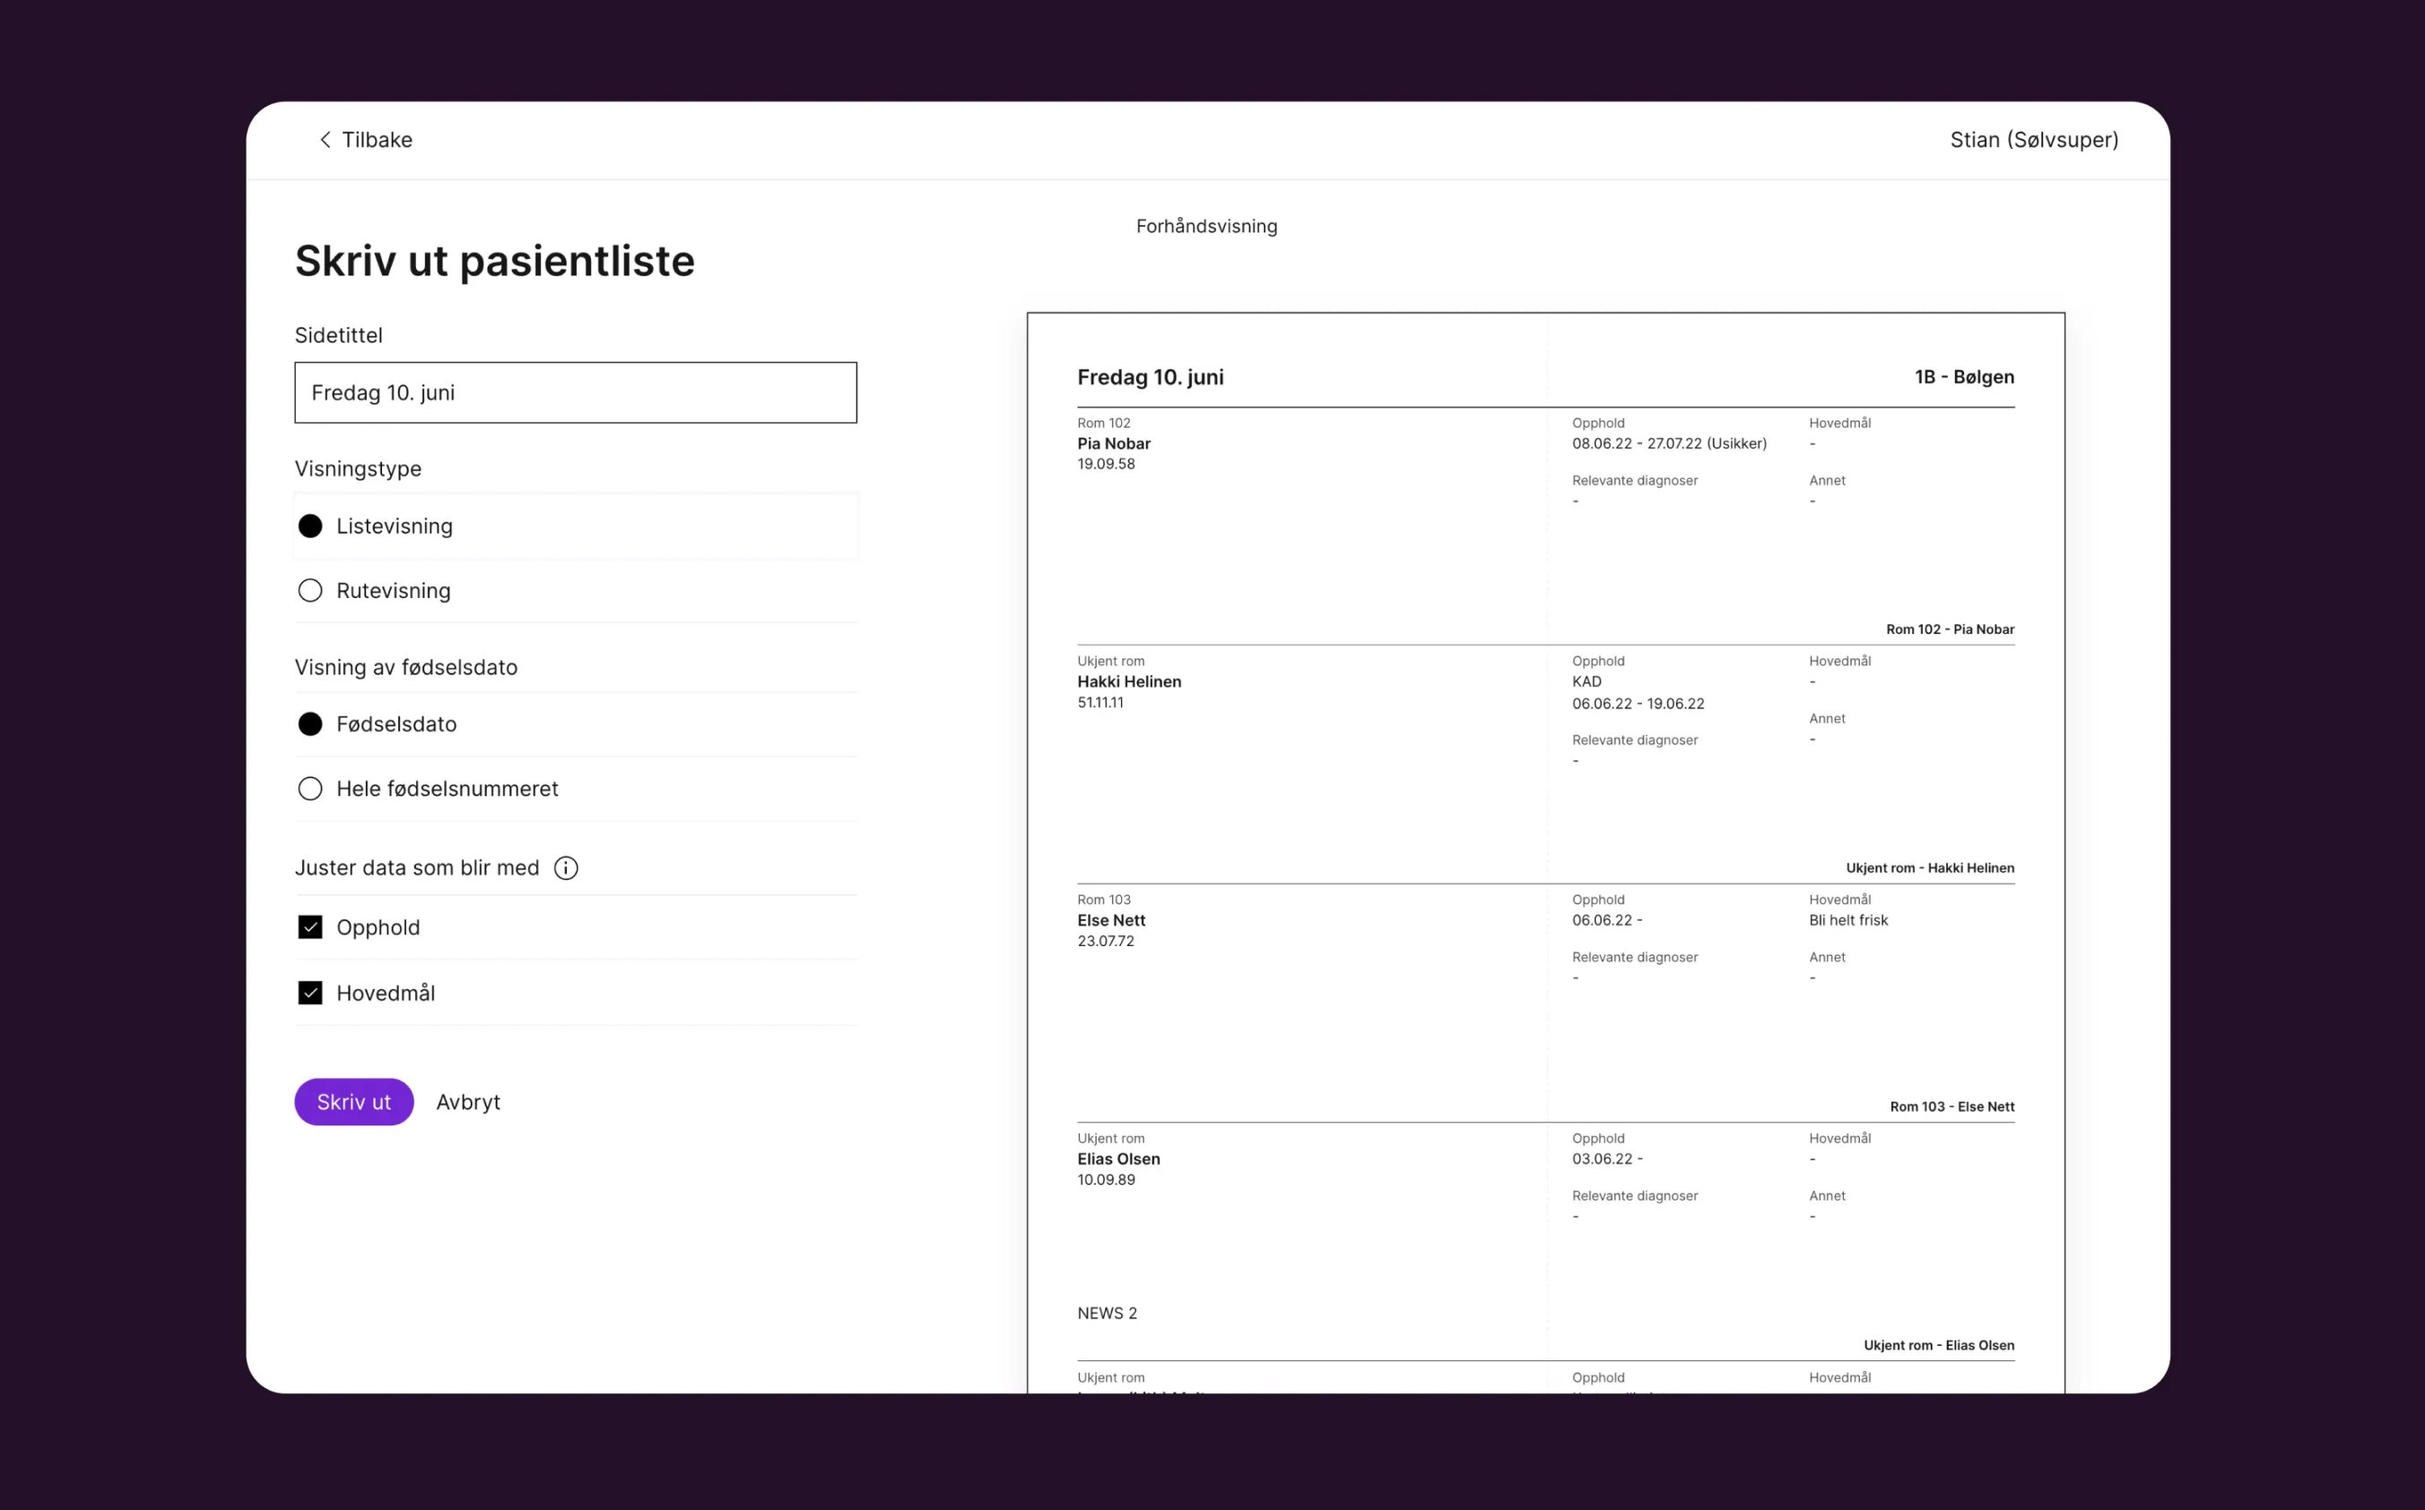
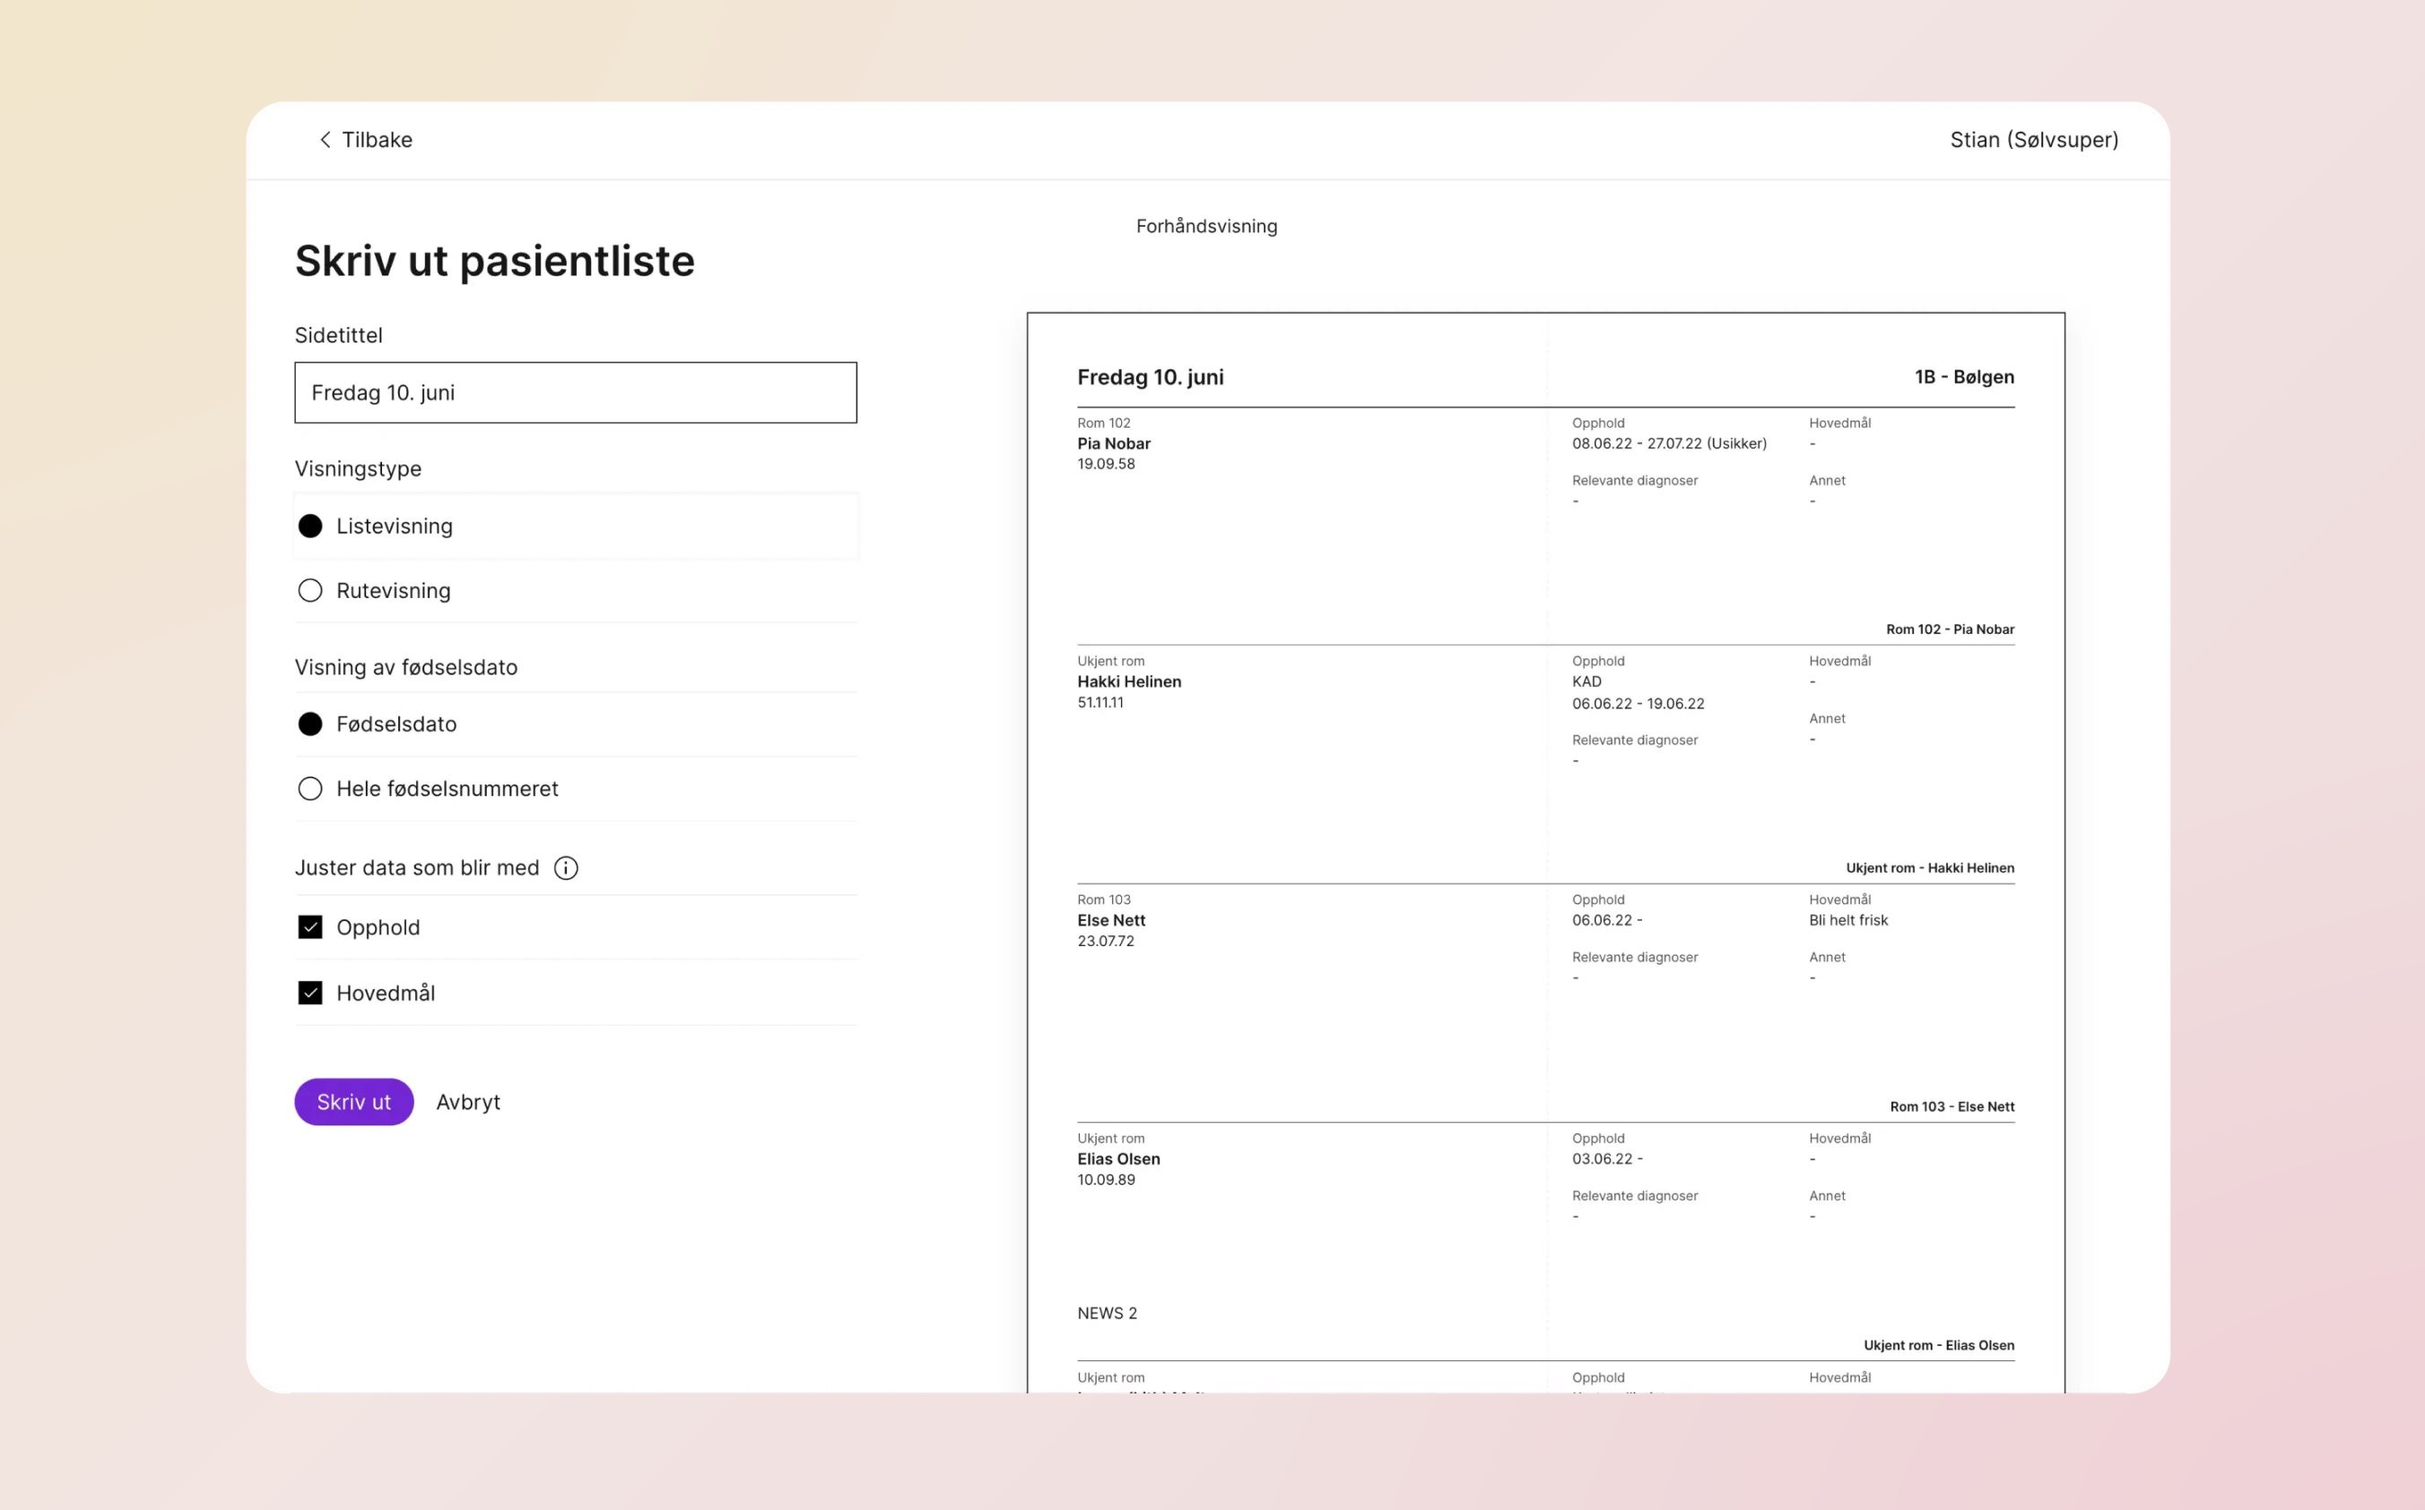
Gradient behind Aidn screens, grey behind process images (#19)
* Rewrite the Aidn case with workshop, scenario and assessment images

New text from Marthe, and five new images: workshop agenda, two needs
sheets, the patient scenario, location sketches and the function
assessment table. Adds a .prose block for body text between image
sections and a .half layout for a single portrait photo.

Claude-Session: https://claude.ai/code/session_01FprJxn1e4yq7MQ4AsjED5L

* Keep Marthe's original wording for the prototype sentence

Claude-Session: https://claude.ai/code/session_01FprJxn1e4yq7MQ4AsjED5L

* Show the three workshop photos side by side with one caption

Claude-Session: https://claude.ai/code/session_01FprJxn1e4yq7MQ4AsjED5L

* Reorder the Aidn case: patient overview first, then workshops

Claude-Session: https://claude.ai/code/session_01FprJxn1e4yq7MQ4AsjED5L

* Drop the section labels above the last two Aidn images

Claude-Session: https://claude.ai/code/session_01FprJxn1e4yq7MQ4AsjED5L

* Update the third Aidn paragraph

Claude-Session: https://claude.ai/code/session_01FprJxn1e4yq7MQ4AsjED5L

* Group the Aidn workshop, scenario and location images under one heading

Claude-Session: https://claude.ai/code/session_01FprJxn1e4yq7MQ4AsjED5L

* Drop the comma in the Aidn workshop heading

Claude-Session: https://claude.ai/code/session_01FprJxn1e4yq7MQ4AsjED5L

* Frame the Aidn function assessment image in dark purple like the other screenshots

Claude-Session: https://claude.ai/code/session_01FprJxn1e4yq7MQ4AsjED5L
[…]

diff --git a/index.html b/index.html
@@ -179,7 +179,7 @@
   </div>
   <section class="part" aria-label="Pasientoversikt">
     <div class="head label">Pasientoversikt</div>
-    <img src="img/aidn-oversikt.jpg" alt="Utskrift av pasientliste med forhåndsvisning og valg for visningstype og data." loading="lazy">
+    <div class="framed"><img src="img/aidn-oversikt.jpg?v=2" alt="Utskrift av pasientliste med forhåndsvisning og valg for visningstype og data." loading="lazy"></div>
     <p class="cap">Noe av det første vi utviklet, var en oversikt over pasienter på en avdeling. Oversikten kunne skrives ut i ulike formater, basert på hvordan helsepersonell foretrakk å brette arket når de hadde det i lomma. Det aller viktigste om pasienten var alltid synlig, samtidig som det var plass til å ta notater når man ikke var ved datamaskin eller nettbrett.</p>
   </section>
   <div class="prose grid">
@@ -191,22 +191,22 @@
     <p class="cap">Forberedelse til workshop, og behov fra helse og boligservice og hjemmetjenesten, kartlagt sammen med kommunen.</p>
   </section>
   <section class="part" aria-label="Scenario">
-    <img src="img/aidn-scenario.jpg" alt="Scenario som følger pasienten Gerd fra hun faller hjemme, via legevakt, sykehus, tildelingskontor og rehabilitering, til hun kommer hjem igjen med hjemmetjeneste." loading="lazy">
+    <div class="framed"><img src="img/aidn-scenario.jpg?v=4" alt="Scenario som følger pasienten Gerd fra hun faller hjemme, via legevakt, sykehus, tildelingskontor og rehabilitering, til hun kommer hjem igjen med hjemmetjeneste." loading="lazy"></div>
     <p class="cap">Scenario kartlagt sammen med kommunene. Oversikten brukte vi videre i teamet for å skape en felles forståelse av løsningen.</p>
   </section>
   <section class="part" aria-label="Lokasjon">
-    <img src="img/aidn-lokasjon.jpg" alt="Skisser av seksjonen Lokasjon på pasientens oversiktsside, vist for tildelingskontor, rehabilitering og hjemmetjenesten i to ulike scenarioer." loading="lazy">
+    <div class="framed"><img src="img/aidn-lokasjon.jpg?v=4" alt="Skisser av seksjonen Lokasjon på pasientens oversiktsside, vist for tildelingskontor, rehabilitering og hjemmetjenesten i to ulike scenarioer." loading="lazy"></div>
     <p class="cap">Videre detaljering av hva hver brukergruppe ser i løsningen.</p>
   </section>
   <div class="prose grid">
     <div class="story"><p>Jeg ble med videre da Aidn fikk flere ansatte og delte arbeidet på ulike team. En av tingene jeg var med på å lage da, var digitale løsninger for pasientkartlegging, for eksempel kartlegging av mål for oppholdet og av pasientens funksjon. Målet var at kartleggingen ble journalført automatisk, med direkte kobling til skjemaet.</p></div>
   </div>
   <section class="part" aria-label="Skjema">
-    <img src="img/aidn-skjema.jpg?v=2" alt="Skjema for målsamtale med forslag til svar som kan legges til med ett trykk." loading="lazy">
+    <div class="framed"><img src="img/aidn-skjema.jpg?v=3" alt="Skjema for målsamtale med forslag til svar som kan legges til med ett trykk." loading="lazy"></div>
     <p class="cap">Skjema som fungerer uansett hvilken digital enhet du har på jobb. Med forslag til svar går det raskt å fylle ut skjemaer, for eksempel når en sykepleier er i samtale med en pasient.</p>
   </section>
   <section class="part" aria-label="Funksjonskartlegging">
-    <img src="img/aidn-funksjon.jpg?v=4" alt="Tabell over pasientens funksjonsnivå etter IPLOS, med score per funksjon for ni datoer. En rad er åpnet og viser utviklingen som en linje over tid." loading="lazy">
+    <div class="framed"><img src="img/aidn-funksjon.jpg?v=6" alt="Tabell over pasientens funksjonsnivå etter IPLOS, med score per funksjon for ni datoer. En rad er åpnet og viser utviklingen som en linje over tid." loading="lazy"></div>
     <p class="cap">Konsept for å vise resultater fra funksjonskartlegging over tid.</p>
   </section>
   <nav class="pager" aria-label="Flere prosjekter"><a class="prev" href="#studio"><span class="label">← Forrige</span><span class="t">Impact Startup: Studio</span></a><a class="next" href="#forsikring"><span class="label">Neste prosjekt →</span><span class="t">Forsikringsselskap</span></a></nav>

diff --git a/css/style.css b/css/style.css
@@ -392,6 +392,7 @@ body.is-case .topnav .home { display: inline; }
   gap: var(--gap);
   align-items: start;
 }
+.part .framed      { overflow: hidden; }  /* image with a baked-in background frame */
 .part .narrow      { max-width: 1000px; }  /* single image, limited width */
 .part .mid         { max-width: 880px; }
 .part .narrowsmall { max-width: 420px; }   /* phone screenshots */
@@ -520,6 +521,7 @@ body.is-case .foot { margin-top: 80px; }
 /* Phones: hide the name link in the case-page menu. On narrow screens it
  * wraps onto two lines, and "← Portefølje" below already leads home. */
 @media (max-width: 480px) {
+  .part .framed img { width: 116%; max-width: none; margin-left: -8%; }  /* trim the side frame so the screen gets bigger */
   body.is-case .topnav .home { display: none; }
 }
 
